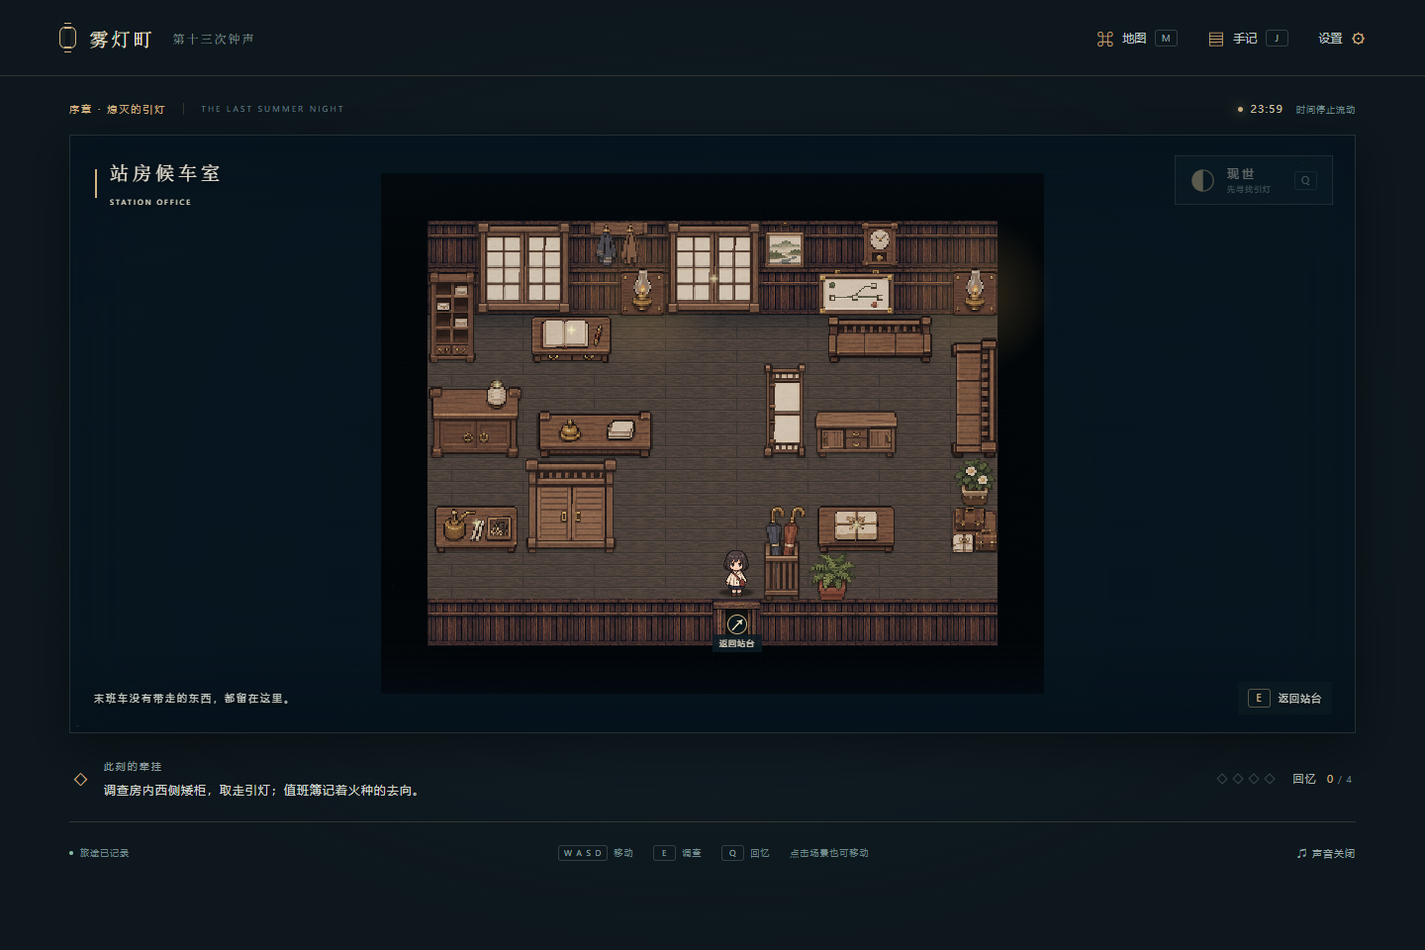
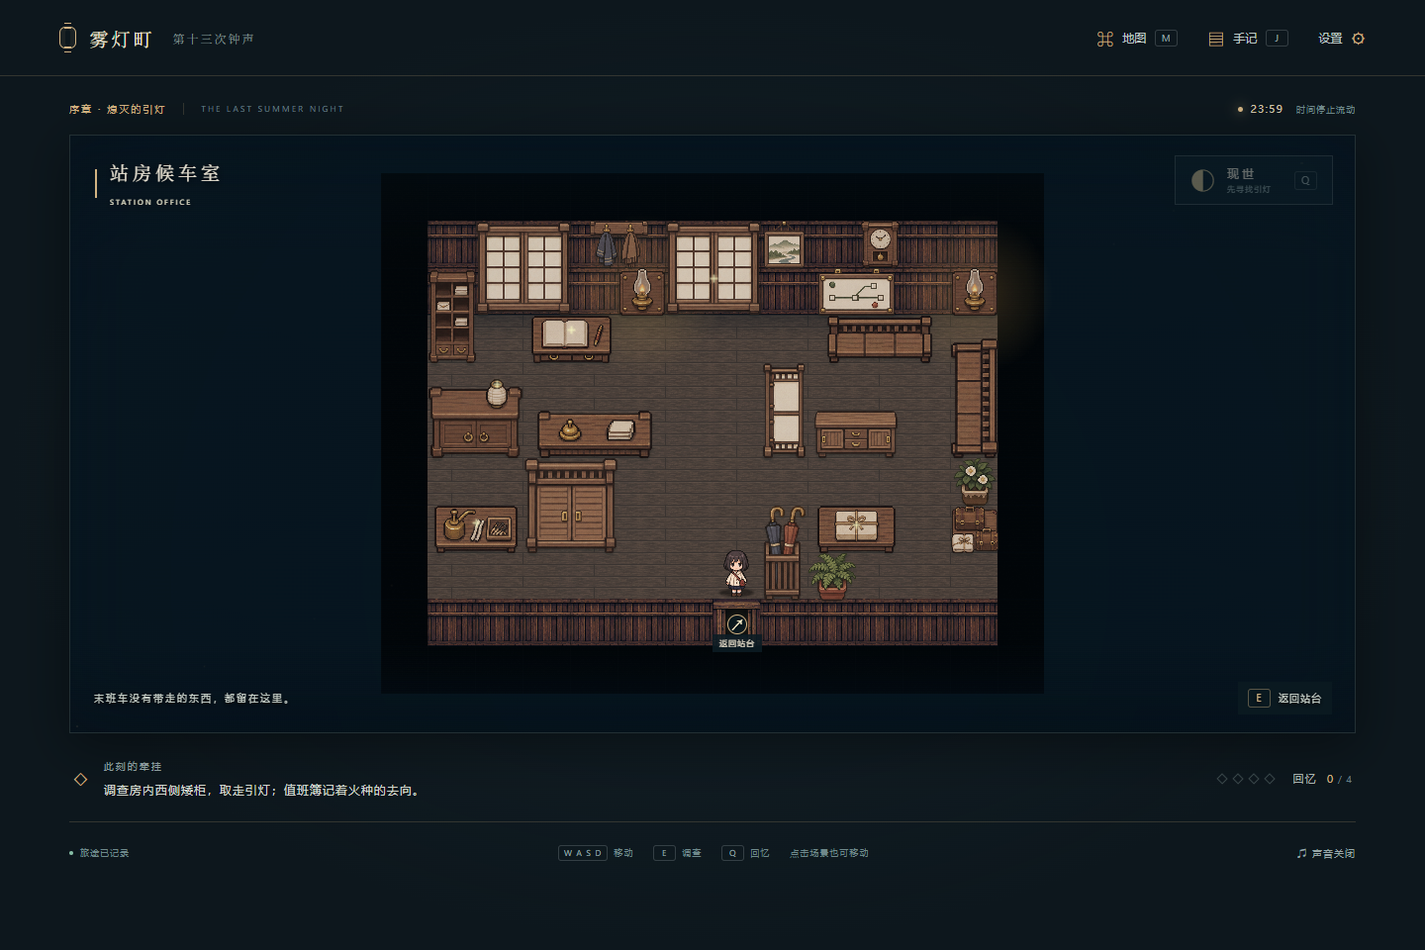
Render interior furniture at native pixel sizes and redraw worktables

diff --git a/world.js b/world.js
@@ -10,9 +10,7 @@
   const craneImage=new Image();craneImage.src='assets/hanging-crane.png';
   const explorationImage=new Image();explorationImage.src='assets/exploration-props.png';
   const explorationCleared=new Image();explorationCleared.src='assets/exploration-props-cleared.png';
-  const gridInterior=new Image();gridInterior.src='assets/grid-interior-redrawn.png';
-  const prefabImage=new Image();prefabImage.src='assets/grid-furniture.png';
-  const decorImage=new Image();decorImage.src='assets/grid-decor.png';
+  const nativeFurniture={};for(const size of [32,48]){const sheet=new Image();sheet.src='assets/interior-native-'+size+'.png';nativeFurniture[size]=sheet;}
   const woodGrain=new Image();woodGrain.src='assets/interior-wood-grain.png';
   const tatamiImage=new Image();tatamiImage.src='assets/tatami-mat.png';let tatamiBounds=null;
   const view = { tile: 48, x: 0, y: 0, width: 1, height: 1, zone: 'station' };
@@ -117,11 +115,15 @@
     ctx.lineTo(fx+size*.075,fy+size*.025);ctx.lineTo(fx+size*.12,fy-size*.02);ctx.stroke();
   }
   function propFrame(prop,solved=[],progress={}){
+    if(prop.grid){
+      const art=root.KiriInteriorArt,variant=prop.completedFlag&&progress.flags?.[prop.completedFlag]?1:0,frame=art.sprites[prop.kind][variant];
+      return {source:nativeFurniture[view.tile],sprite:variant,native:true,rect:{x:frame.col*art.cell*view.tile,y:frame.row*art.cell*view.tile,w:frame.w*view.tile,h:frame.h*view.tile}};
+    }
     const cleared=(prop.clearedBy&&progress.flags?.[prop.clearedBy])||(prop.onlyItemInEcho&&progress.phase!=='echo');
-    const source=prop.atlas==='gridInterior'?gridInterior:prop.atlas==='decor'?decorImage:prop.atlas==='prefab'?prefabImage:prop.atlas==='exploration'?(cleared?explorationCleared:explorationImage):prop.atlas==='world'?worldProps:prop.atlas==='station'?stationKit:prop.atlas==='crane'?craneImage:mountedImage;
-    const columns=prop.atlas==='gridInterior'?5:['world','exploration','prefab','decor'].includes(prop.atlas)?4:prop.atlas==='crane'?1:2,rows=['prefab','decor'].includes(prop.atlas)?3:prop.atlas==='crane'?1:2;
+    const source=prop.atlas==='exploration'?(cleared?explorationCleared:explorationImage):prop.atlas==='world'?worldProps:prop.atlas==='station'?stationKit:prop.atlas==='crane'?craneImage:mountedImage;
+    const columns=['world','exploration'].includes(prop.atlas)?4:prop.atlas==='crane'?1:2,rows=prop.atlas==='crane'?1:2;
     const sprite=prop.completedFlag&&progress.flags?.[prop.completedFlag]?prop.completedSprite:prop.gate&&solved.includes(prop.gate)?prop.openSprite:prop.sprite;
-    return {source,columns,rows,sprite,cropSprites:prop.grid&&Number.isInteger(prop.completedSprite)?[prop.sprite,prop.completedSprite]:[sprite]};
+    return {source,columns,rows,sprite};
   }
   function drawPlatform(pen,map,size,originX=0,originY=0){
     if(!stationKit.complete||!stationKit.naturalWidth)return;
@@ -175,7 +177,7 @@
       furniture.replaceChildren();
       propNodes=map.props.map(prop=>{
         const node=document.createElement('canvas');node.className='scene-prop';node.dataset.prop=prop.id;
-        node.width=prop.grid?prop.grid.w*32:256;node.height=prop.grid?prop.grid.h*32:256;
+        node.width=prop.grid?prop.grid.w*view.tile:256;node.height=prop.grid?prop.grid.h*view.tile:256;
         if(prop.grid){node.classList.add('grid-furniture');node.dataset.footprint=prop.grid.w+'x'+prop.grid.d;node.dataset.cellX=prop.grid.x;node.dataset.cellY=prop.grid.y;node.style.transform='none';}
         else node.style.setProperty('--prop-scale',prop.size);
         const pose=root.KiriMaps.attachmentPose(map.id,prop);
@@ -190,11 +192,12 @@
       if(!node.hidden) { node.style.left=p.x+'px';node.style.top=p.y+'px'; }
     });
     propNodes.forEach(item=>{
-      const {prop,node,thread}=item,frame=propFrame(prop,solved,progress),key=prop.atlas+'-'+frame.sprite+'-'+(frame.source===explorationCleared?'cleared':'original');
+      const {prop,node,thread}=item,frame=propFrame(prop,solved,progress),key=prop.atlas+'-'+frame.sprite+'-'+(frame.native?view.tile:frame.source===explorationCleared?'cleared':'original');
+      if(prop.grid&&(node.width!==prop.grid.w*view.tile||node.height!==prop.grid.h*view.tile)){node.width=prop.grid.w*view.tile;node.height=prop.grid.h*view.tile;item.painted=null;}
       if(item.painted!==key&&frame.source.complete&&frame.source.naturalWidth){
-        const {source,columns,rows,sprite}=frame,sw=source.naturalWidth/columns,sh=source.naturalHeight/rows,pen=node.getContext('2d');
+        const {source,columns,rows,sprite}=frame,pen=node.getContext('2d');
         pen.imageSmoothingEnabled=false;pen.clearRect(0,0,node.width,node.height);
-        if(prop.grid)drawGridFrame(pen,frame,0,0,node.width,node.height,!!prop.mount);else pen.drawImage(source,(sprite%columns)*sw+4,Math.floor(sprite/columns)*sh+4,sw-8,sh-8,0,0,256,256);item.painted=key;
+        if(prop.grid)drawGridFrame(pen,frame,0,0,node.width,node.height);else{const sw=source.naturalWidth/columns,sh=source.naturalHeight/rows;pen.drawImage(source,(sprite%columns)*sw+4,Math.floor(sprite/columns)*sh+4,sw-8,sh-8,0,0,256,256);}item.painted=key;
       }
       if(prop.grid){const g=prop.grid;node.style.left=Math.round((g.x-view.x)*view.tile)+'px';node.style.top=Math.round((g.top-view.y)*view.tile)+'px';node.style.width=g.w*view.tile+'px';node.style.height=g.h*view.tile+'px';return;}
       const pose=root.KiriMaps.attachmentPose(map.id,prop),p=pose?project({x:pose.x-.5,y:pose.bottomY-.92}):project(prop);
@@ -202,25 +205,11 @@
       if(thread){const a=project({x:pose.x-.5,y:pose.threadY-.92});thread.style.left=a.x+'px';thread.style.top=a.y+'px';thread.style.height=Math.max(0,(pose.bottomY-prop.size*.5-pose.threadY)*view.tile)+'px';}
     });
   }
-  const frameCropCache=new WeakMap();
-  function drawGridFrame(pen,frame,x,y,width,height,mount){
-    const {source,columns,rows,sprite,cropSprites}=frame;
-    let entries=frameCropCache.get(source);if(!entries){entries=new Map();frameCropCache.set(source,entries);}
-    const key=sprite+':'+cropSprites.join(',');let crop=entries.get(key);
-    if(!crop){
-      const sw=source.naturalWidth/columns,sh=source.naturalHeight/rows,fragment=document.createElement('canvas');fragment.width=Math.floor(sw-8);fragment.height=Math.floor(sh-8);
-      const scan=fragment.getContext('2d');scan.imageSmoothingEnabled=false;scan.drawImage(source,(sprite%columns)*sw+4,Math.floor(sprite/columns)*sh+4,sw-8,sh-8,0,0,fragment.width,fragment.height);
-      let minX=fragment.width,minY=fragment.height,maxX=-1,maxY=-1;
-      try{for(const index of cropSprites){
-        const sample=document.createElement('canvas');sample.width=fragment.width;sample.height=fragment.height;const brush=sample.getContext('2d');brush.drawImage(source,(index%columns)*sw+4,Math.floor(index/columns)*sh+4,sw-8,sh-8,0,0,sample.width,sample.height);const pixels=brush.getImageData(0,0,sample.width,sample.height).data;
-        for(let row=0;row<sample.height;row++)for(let col=0;col<sample.width;col++)if(pixels[(row*sample.width+col)*4+3]>96){minX=Math.min(minX,col);minY=Math.min(minY,row);maxX=Math.max(maxX,col);maxY=Math.max(maxY,row);}
-      }
-      }catch{minX=0;minY=0;maxX=fragment.width-1;maxY=fragment.height-1;}
-      crop={image:fragment,x:minX,y:minY,w:maxX-minX+1,h:maxY-minY+1};entries.set(key,crop);
-    }
-    if(crop.w<1||crop.h<1)return;
-    const fitted=root.KiriFurniture.fitArt(width,height,crop.w,crop.h,mount);
-    pen.drawImage(crop.image,crop.x,crop.y,crop.w,crop.h,x+fitted.x,y+fitted.y,fitted.w,fitted.h);
+  function drawGridFrame(pen,frame,x,y,width,height){
+    // Gameplay canvas and source rectangle have identical pixel dimensions.
+    // Only map thumbnails deliberately use a smaller destination.
+    const r=frame.rect;pen.imageSmoothingEnabled=false;
+    pen.drawImage(frame.source,r.x,r.y,r.w,r.h,x,y,width,height);
   }
   function paintBuilding(pen,map,b,size,originX,originY){
     for(let y=b.eaveY;y<b.frontY;y++)for(let x=b.x;x<b.x+b.width;x++)texture(pen,map.tiles[y*map.w+x],x*size-originX,y*size-originY,size,'object');
@@ -295,5 +284,5 @@
     map.props.forEach(p=>{const pose=root.KiriMaps.attachmentPose(zone,p),g=p.grid;layers.push({z:g?depth(g.y+(g.d||1)-.92):pose?depth(pose.building.frontY-.92,1):depth(p.y,-1),draw:()=>{const frame=propFrame(p,solved,progress),{source,columns,rows,sprite}=frame;if(!source.complete||!source.naturalWidth)return;if(g){drawGridFrame(pen,frame,g.x*size,g.top*size,g.w*size,g.h*size,!!p.mount);return;}const sw=source.naturalWidth/columns,sh=source.naturalHeight/rows,extent=p.size*size,x=pose?pose.x:p.x+.5,y=pose?pose.bottomY:p.y+.92;pen.drawImage(source,sprite%columns*sw+4,Math.floor(sprite/columns)*sh+4,sw-8,sh-8,x*size-extent*.5,y*size-extent*.985,extent,extent);}});});
     layers.sort((a,b)=>a.z-b.z).forEach(layer=>layer.draw());
   }
-  root.KiriRenderer = { view, resize, draw, project, unproject, thumbnail, depth, assetsReady:()=>[image,foliage,mountedImage,worldProps,stoneGrain,stationKit,craneImage,explorationImage,explorationCleared,gridInterior,prefabImage,decorImage,woodGrain,tatamiImage].every(i=>i.complete&&i.naturalWidth>0)&&!!root.KiriLighting?.assetsReady() };
+  root.KiriRenderer = { view, resize, draw, project, unproject, thumbnail, depth, assetsReady:()=>[image,foliage,mountedImage,worldProps,stoneGrain,stationKit,craneImage,explorationImage,explorationCleared,...Object.values(nativeFurniture),woodGrain,tatamiImage].every(i=>i.complete&&i.naturalWidth>0)&&!!root.KiriLighting?.assetsReady() };
 })(globalThis);

diff --git a/interior-art.js b/interior-art.js
@@ -1,0 +1,2 @@
+/* Generated by scripts/import-interior-art.cjs. Rectangles include transparent padding. */
+(function(root,factory){if(typeof module==='object'&&module.exports)module.exports=factory();else root.KiriInteriorArt=factory();})(globalThis,()=>({"version":1,"sizes":[32,48],"cell":3,"columns":6,"sprites":{"lampCabinet":[{"col":0,"row":0,"w":2,"h":2},{"col":1,"row":0,"w":2,"h":2}],"dutyDesk":[{"col":2,"row":0,"w":2,"h":1}],"parcelShelf":[{"col":3,"row":0,"w":2,"h":1},{"col":4,"row":0,"w":2,"h":1}],"maintenanceBench":[{"col":5,"row":0,"w":2,"h":1}],"serviceCounter":[{"col":0,"row":1,"w":3,"h":1}],"waitingBench":[{"col":1,"row":1,"w":3,"h":1}],"sideBench":[{"col":2,"row":1,"w":1,"h":3}],"ticketCubby":[{"col":3,"row":1,"w":1,"h":2}],"luggage":[{"col":4,"row":1,"w":1,"h":1}],"wallClock":[{"col":5,"row":1,"w":1,"h":1}],"wallLamp":[{"col":0,"row":2,"w":1,"h":1}],"repairTable":[{"col":1,"row":2,"w":2,"h":2},{"col":2,"row":2,"w":2,"h":2}],"pasteTable":[{"col":3,"row":2,"w":2,"h":2}],"notesTable":[{"col":4,"row":2,"w":2,"h":1}],"paperShelf":[{"col":5,"row":2,"w":2,"h":2}],"dryingRack":[{"col":0,"row":3,"w":3,"h":2}],"stool":[{"col":1,"row":3,"w":1,"h":1}],"stockBasket":[{"col":2,"row":3,"w":1,"h":1}],"sideShelf":[{"col":3,"row":3,"w":1,"h":2}],"wardrobe":[{"col":4,"row":3,"w":2,"h":2}],"lowCupboard":[{"col":5,"row":3,"w":2,"h":1}],"screen":[{"col":0,"row":4,"w":2,"h":2}],"sideScreen":[{"col":1,"row":4,"w":1,"h":2}],"fern":[{"col":2,"row":4,"w":1,"h":1}],"camellia":[{"col":3,"row":4,"w":1,"h":1}],"routeBoard":[{"col":4,"row":4,"w":2,"h":1}],"landscape":[{"col":5,"row":4,"w":1,"h":1}],"shojiWindow":[{"col":0,"row":5,"w":2,"h":2}],"narrowWindow":[{"col":1,"row":5,"w":1,"h":2}],"umbrellaStand":[{"col":2,"row":5,"w":1,"h":2}],"coatRack":[{"col":3,"row":5,"w":2,"h":1}]},"rows":6}));

diff --git a/furniture.js b/furniture.js
@@ -13,8 +13,8 @@
     luggage:{atlas:'gridInterior',sprite:3,w:1,d:1,h:1},
     wallClock:{atlas:'gridInterior',sprite:4,w:1,d:0,h:1,mount:'back-wall'},
     wallLamp:{atlas:'gridInterior',sprite:5,w:1,d:0,h:1,mount:'back-wall'},
-    repairTable:{atlas:'prefab',sprite:5,w:2,d:2,h:2,completedFlag:'helpedNagi',completedSprite:6,focus:[.5,.3]},
-    pasteTable:{atlas:'prefab',sprite:7,w:2,d:2,h:2,focus:[.35,.45]},
+    repairTable:{atlas:'worktable',sprite:0,w:2,d:2,h:2,completedFlag:'helpedNagi',completedSprite:1,focus:[.43,.43]},
+    pasteTable:{atlas:'worktable',sprite:2,w:2,d:2,h:2,focus:[.35,.48]},
     notesTable:{atlas:'prefab',sprite:8,w:2,d:1,h:1,focus:[.5,.5]},
     paperShelf:{atlas:'gridInterior',sprite:6,w:2,d:1,h:2},
     dryingRack:{atlas:'gridInterior',sprite:7,w:3,d:1,h:2},
@@ -49,7 +49,7 @@
     const prop={...def,id,kind,grid,x:x+Math.floor(def.w/2),y:y+(def.mount?def.h-1:def.d-1)};
     map.props.push(prop);return prop;
   }
-  // One scale for both axes; floor objects rest on their cell baseline.
+  // Import-time fitting only. Gameplay reads prepared sheets at native size.
   function fitArt(width,height,sourceWidth,sourceHeight,mount=false){
     const scale=Math.min(width/sourceWidth,height/sourceHeight),w=sourceWidth*scale,h=sourceHeight*scale;
     return {x:(width-w)/2,y:mount?(height-h)/2:height-h,w,h};

diff --git a/index.html b/index.html
@@ -10,6 +10,7 @@
   <link rel="stylesheet" href="style.css">
   <script defer src="scenery.js"></script>
   <script defer src="furniture.js"></script>
+  <script defer src="interior-art.js"></script>
   <script defer src="maps.js"></script>
   <script defer src="movement.js"></script>
   <script defer src="core.js"></script>

diff --git a/docs/NATIVE-INTERIOR-ART.md b/docs/NATIVE-INTERIOR-ART.md
@@ -1,0 +1,53 @@
+# 室内固定像素图集与工作台透视
+
+2026-11-16。本记录取代先前“游戏中自动裁掉透明边界再适配格框”的室内家具显示方式。
+
+## 修正内容
+
+- 2 × 2 表示地面占格，不要求桌面的可见轮廓成为正方形。修灯台及调糊台重绘为与室内柜架一致的斜俯视：桌面有纵深压缩、短前沿和桌腿，台面灯具、碗和工具缩小。
+- 新原图由内置 image_gen 制作：`assets/grid-worktables-v2.png`，3 列 × 1 行，依次为破损修灯台、修好修灯台、调糊台。保留透明通道和未经修改的生成原图。
+- 所有室内家具共 34 帧，在导入阶段统一生成两套固定像素图集。正式游戏不再读取高分辨率原图来逐件裁边缩放。
+
+## 文件与尺寸
+
+| 文件 | 用途 |
+| --- | --- |
+| `assets/interior-native-48.png` | 电脑版原生图集，864 × 864；每格 48 像素 |
+| `assets/interior-native-32.png` | 手机版原生图集，576 × 576；每格 32 像素 |
+| `interior-art.js` | 每个家具与状态的固定图集区域，含透明留白 |
+| `scripts/import-interior-art.cjs` | 一次性素材导入、状态边界合并与原生图集生成 |
+
+2 × 2 家具在电脑上拥有 96 × 96 的完整图片区域，在手机上拥有 64 × 64 区域，1 × 3、3 × 1 等家具也分别保留完整多格区域。透明留白属于素材的一部分；游戏中不会为填满碰撞盒而放大或拉长桌面。
+
+## 导入与显示规则
+
+运行 `node scripts/import-interior-art.cjs` 导入或更新素材。原始生成大图只在导入阶段采样一次，保留横纵相同的缩放比例，使用最近邻采样和整数落点。两种原生尺寸直接分别从原图生成，不从一个小版本反复缩放。状态帧共用合并边界，保留柜体和桌体的基线。
+
+运行时按固定图集矩形读取 PNG，源矩形、家具画布和 CSS 显示尺寸完全一致。没有 alpha 扫描、自动裁边、按可见轮廓适配格框，也不再经过“32 像素画布放大为 48 像素”的链路。窗口跨过手机尺寸阈值时，切换到事先准备好的另一套原生图集，不把旧画布缩小。开启 `image-rendering:pixelated` 并关闭画布插值。
+
+这次范围为两处室内家具；地图缩略图作为导航预览仍会缩小显示。
+
+## 验证
+
+- 36 项规则检查通过，包含两套图集尺寸、全家具/全状态区域、完整碰撞矩形及通路。
+- 浏览器记录家具实际的 drawImage 调用，断言其源矩形与目标矩形相同，且读取的是原生图集。
+- 电脑与手机尺寸分别断言画布像素尺寸等于 CSS 尺寸；室内画面无脚本或资源错误。
+- 开场探索专项重新复查取灯、点灯、包裹交付、修灯与室内进出。
+- 预览：`preview-station-office.png`、`preview-lantern-workshop.png`、对应 `-grid.png` 占地示意与 `preview-workshop-mobile.png`。
+
+## 工作台完整生成提示词
+
+输入 `assets/grid-furniture.png` 仅作像素风格和色彩参考。由内置 image_gen 重新绘制，未通过压缩旧图代替重绘。
+
+```text
+Use case: stylized-concept.
+Asset type: transparent production pixel-art sprite atlas, EXACTLY THREE columns by ONE row, three equal SQUARE cells, total canvas aspect3:1.
+Input image is a STYLE AND COLOUR REFERENCE ONLY. Redraw ONLY the two lantern-workshop low tables and their quest states, not the reference atlas.
+Critical art correction: the reference square tabletop looks unnaturally vertically stretched, completely overhead, and lacks convincing table height. Redraw with classic Pokemon-era/Japanese adventure RPG THREE-QUARTER TOP-DOWN ORTHOGRAPHIC perspective consistent with room cabinets. A physically SQUARE table on a 2-by-2 ground footprint should appear gently FORESHORTENED in screen space: visible silhouette about FOUR units WIDE by THREE units HIGH (4:3). Its square horizontal tabletop appears as an axis-aligned RECTANGLE, about 1.6 times wider than deep, with a clear SHORT FRONT FASCIA and TWO SHORT LEGS below. Straight horizontal and vertical edges, NO isometric diamonds, no trapezoidal taper, no diagonal camera. Do NOT make the entire sprite square to fill the cell. Provide transparent space above and below. Original artwork must have these proportions before any scaling.
+All three sprites use EXACT SAME table base and camera: modest low walnut wooden worktable, four small square corner joints, restrained plank grain, narrow dark outline, top panel depth foreshortened, little front apron and two short square feet. No huge pillars or metal dungeon table. Old muted dark brown/ivory/brass/red palette, crisp CHUNKY 16-bit pixel art matching the reference, NOT high-detail painterly render. Most tabletop surface remains visible and clear.
+Cell0: square-footprint low lantern repair table, small DAMAGED ivory paper lantern on left, compact red cord coil at upper right and FOUR short bamboo ribs neatly at lower right. Lantern is SMALL, only about30% of table width and35% of whole sprite height, natural tall rounded paper shape, no stretched oval, some torn paper. Small natural-sized tools.
+Cell1: IDENTICAL table, identical position/width/height/legs and identical tool placement, but lantern repaired with intact ivory paper. Absolutely same table geometry as0. Small lantern same scale.
+Cell2: IDENTICAL empty table base, small shallow round bowl of rice paste in upper-left, small ceramic jug upper-right, short paste brush on lower-right. Each object is small (bowl diameter about22% table width), realistic sprite proportions and correct shared oblique view, not overhead giant disks.
+Constraints: EXACT3x1 equal square-cell layout; same base size and baseline in all three cells; NO text, labels, borders, grid, floor, backdrop, shadows outside the silhouette, characters, plants. Genuine transparent alpha background. Fully isolated sprites in each cell, no overlapping cell boundaries. These are production game sprites, not mockup room scenes.
+```
+

diff --git a/docs/QA.md b/docs/QA.md
@@ -4,7 +4,7 @@
 
 ## 核心规则
 
-`npm test`：35 项检查通过，其中 27 项覆盖核心规则、物件、布局、整格家具、素材比例、道具条件、NPC 分阶段帮助及旧室内存档迁移，8 项覆盖移动和转向。
+`npm test`：36 项检查通过，其中 28 项覆盖核心规则、物件、布局、整格家具、固定像素素材、道具条件、NPC 分阶段帮助及旧室内存档迁移，8 项覆盖移动和转向。
 
 验证了章节先决条件、禁止跳关、错误答案不改变进度、四种机关答案、联动齿轮可解性、回忆重复调查、四种结局条件、存档序列化、损坏存档恢复，以及格子地图中的墙体、书架、水面碰撞。逐一检查了六处区域与两处室内的每个人物、机关、回忆、线索与出口，确保均存在从出生点出发、不穿过障碍的相邻格路径。
 
@@ -93,3 +93,7 @@
 ## 旧家具重绘与等比显示
 
 两处室内原先保留的九类旧素材全部重绘，共十帧（含取灯后的空柜），接入 `grid-interior-redrawn.png`。测试要求所有室内家具只能引用三套格子版图集。所有家具使用统一等比缩放，验证图像比例不变、仍包含于格框且落地基线不变；状态帧共用裁切范围。两间屋子的实景与占地预览重新生成，浏览器无脚本和资源错误；开场探索专项再次通过。提示词与映射见 [重绘记录](GRID-INTERIOR-REDRAW.md)。
+
+## 固定像素图集与工作台透视复验
+
+上述三套源图另补充工作台重绘图，现共四套原图。导入器预先生成 32 / 48 像素每格的原生图集，共 34 帧。室内渲染不再自动裁边或适配格框，浏览器记录实际 drawImage 调用，断言源矩形像素尺寸等于目标矩形；并在电脑和手机尺寸分别断言家具画布原像素尺寸等于 CSS 显示尺寸。工作台保留 2 × 2 碰撞占地，可见桌面按斜俯视透视缩短，补充桌腿和前沿。开场探索专项通过，图集状态切换和两间屋子的进出正常。详见 [最新素材与验证记录](NATIVE-INTERIOR-ART.md)。

diff --git a/README.md b/README.md
@@ -84,7 +84,7 @@ npm start
 
 生成提示词、图集排列与资源清单见 [素材记录](docs/ART-PROMPTS.md)。素材均保存在仓库内，运行时不请求远程图片或字体。
 
-室内家具已全部换为格子版图集，旧柜架、行李、壁灯和墙钟另行重绘。所有家具保留图片原始比例，按整格边界等比显示；取灯、领取包裹和修灯时保持家具尺寸与位置稳定。见 [室内重绘素材与提示词](docs/GRID-INTERIOR-REDRAW.md)。
+室内家具已全部换为格子版素材，旧柜架、行李、壁灯和墙钟另行重绘。家具原图在导入时一次生成电脑与手机的固定像素图集；游戏中按原尺寸复制，不再自动裁边、拉满占格或缩小后放大。2 × 2 工作台另行重绘为斜俯视角，保留前沿与桌腿。取灯、领取包裹和修灯时保持家具尺寸与位置稳定。见 [固定像素图集、导入方式及工作台提示词](docs/NATIVE-INTERIOR-ART.md)。
 
 ## 文件
 
@@ -94,6 +94,7 @@ npm start
 | `game.js` | 探索、交互、剧情、机关与存档界面 |
 | `maps.js` | 六张逐格地图、墙体碰撞、可通行区域与寻路 |
 | `furniture.js` | 整格家具规格、完整矩形碰撞、朝向与状态 |
+| `interior-art.js`、`scripts/import-interior-art.cjs` | 原生像素家具区域与一次性图集导入 |
 | `movement.js` | 连续步进、方向优先级、转向衔接与行走帧 |
 | `scenery.js` | 分区地表、植物配置与稳定的装饰分布 |
 | `world.js` | 2D 地块绘制、镜头跟随与地图缩略图 |

diff --git a/docs/GRID-FURNITURE.md b/docs/GRID-FURNITURE.md
@@ -1,5 +1,7 @@
 # 整格家具与站房陈设
 
+当前显示方式已更新为预先导入固定像素图集，游戏中按原尺寸读取；详见 [固定像素图集与工作台透视](NATIVE-INTERIOR-ART.md)。以下保留占格与原始素材设计记录。
+
 2026-11-16。站房 14 × 11 格，制灯铺 12 × 11 格。每件家具在放置前确定宽度和地面深度，地图只接收整数格坐标，不再逐件随意调整显示尺寸。
 
 ## 空间安排
@@ -14,7 +16,7 @@
 
 放置函数会拒绝小数坐标、越界、地面家具重叠和墙面挂饰重叠。调查点和闪光点从同一组家具坐标计算；取灯、取包裹和修好纸灯仍会切换素材状态。
 
-渲染时先裁去图集单元的透明留白，再等比绘制到每格 32 像素的固定画布，关闭插值。所有预制件保留原始纵横比，落地家具贴齐占格底边；墙面挂件居中。状态切换共用合并裁切边界，避免柜体或桌面改变尺寸。侧向长椅和屏风由独立侧向素材表现。
+素材只在导入阶段整理透明边界和比例，生成每格 32 / 48 像素的两套原生图集。游戏中完整读取预定矩形，图片像素、画布像素和显示像素保持一致，保留导入时设计好的透明留白。落地家具贴齐占格底边，墙面挂件居中。状态切换共用合并裁切边界，避免柜体或桌面改变尺寸。侧向长椅和屏风由独立侧向素材表现。
 
 ## 常用模块
 

diff --git a/docs/GRID-INTERIOR-REDRAW.md b/docs/GRID-INTERIOR-REDRAW.md
@@ -1,5 +1,7 @@
 # 室内旧家具重绘
 
+当前运行时已改为读取事先准备好的固定像素图集，不再自动裁切缩放；见 [最新显示与工作台修正记录](NATIVE-INTERIOR-ART.md)。本文保留旧家具重绘原图及提示词。
+
 2026-11-16。两间室内已移除旧的 exploration / interior / compact / world 家具引用，全部使用按格子设计的 prefab、decor、gridInterior 三套图集。旧 PNG 作为历史素材保留，不再被室内家具使用。
 
 ## 新图集
